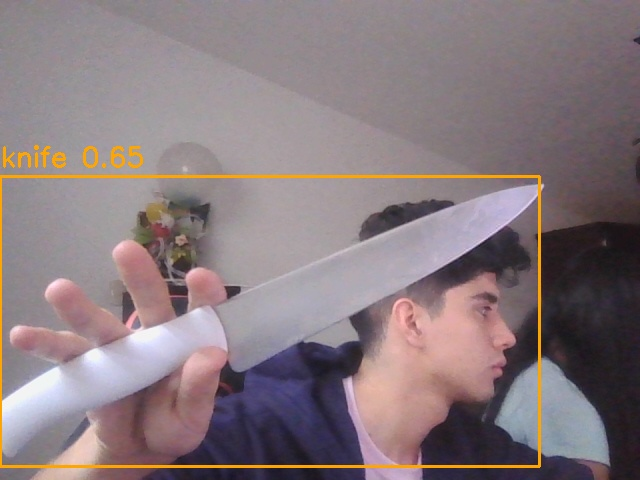
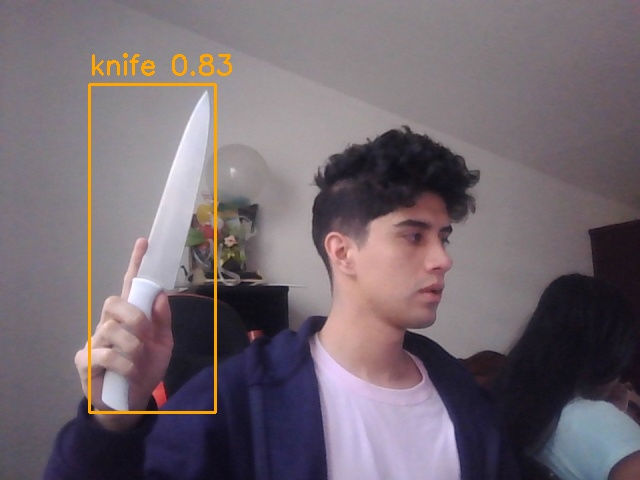
se sube pruebas unitarias y ajustes al codigo para envio de fotos

diff --git a/Cliente/detection.py b/Cliente/detection.py
@@ -54,8 +54,6 @@ class Detection(QThread):
         print("Clases disponibles:", model.names)
 
         cap = cv2.VideoCapture(0)
-        
-        startingTime = time.time()
 
         while self.running:
             ret, frame = cap.read()
@@ -63,26 +61,28 @@ class Detection(QThread):
             if ret:
                 results = model(frame)
 
+                detection_made = False
                 for r in results:
                     boxes = r.boxes
                     for box in boxes:
-                        x1, y1, x2, y2 = box.xyxy[0]
-                        x1, y1, x2, y2 = int(x1), int(y1), int(x2), int(y2)
-                        
                         conf = box.conf[0]
                         cls = int(box.cls[0])
 
                         if conf > 0.5:
+                            x1, y1, x2, y2 = box.xyxy[0]
+                            x1, y1, x2, y2 = int(x1), int(y1), int(x2), int(y2)
                             color = self.colors.get(cls, (255, 255, 255))
                             cv2.rectangle(frame, (x1, y1), (x2, y2), color, 2)
                             label = f'{model.names[cls]} {conf:.2f}'
                             cv2.putText(frame, label, (x1, y1 - 10), cv2.FONT_HERSHEY_SIMPLEX, 0.9, color, 2)
+                        if conf > 0.80:
+                            detection_made = True
 
-                elapsedTime = time.time() - startingTime
-                if elapsedTime >= 10:
-                    startingTime = time.time()
+
+
+                    
+                if detection_made:
                     self.saveDetection(frame)
-
                 rgbImage = cv2.cvtColor(frame, cv2.COLOR_BGR2RGB)
                 h, w, ch = rgbImage.shape
                 bytesPerLine = ch * w
@@ -98,28 +98,23 @@ class Detection(QThread):
 
         cap.release()
 
-	# Saves detected frame as a .jpg within the saved_alert folder
     def saveDetection(self, frame):
         cv2.imwrite("savedFrame/frame.jpg", frame)
         print('Frame Saved')
         self.postDetection()
 
-	# Sends alert to the server
     def postDetection(self):
         try:
             url = 'http://127.0.0.1:8000/api/images/'
             headers = {'Authorization': 'Token ' + self.token}
             files = {'image': open('savedFrame/frame.jpg', 'rb')}
-            data = {'userID': self.token,'location': self.location, 'alertReceiver': self.receiver}
+            data = {'userID': self.token, 'location': self.location, 'alertReceiver': self.receiver}
             response = requests.post(url, files=files, headers=headers, data=data)
 
-			# HTTP 200
             if response.ok:
                 print('Alert was sent to the server')
-			# Bad response
             else:
                 print('Unable to send alert to the server')
         except Exception as e:
             print(f'Error al acceder al servidor: {str(e)}')
             print(traceback.format_exc())
-

diff --git a/Cliente/monitoringWindowClass.py b/Cliente/monitoringWindowClass.py
@@ -25,7 +25,7 @@ class MonitoringWindow(QMainWindow):
             if self.detectionWindow.isVisible():
                 print('La deteccion esta abierta')
             else:
-                self.detectionWindow.createDetectionInstance(self.token, self.ubicationInput.text(), self.startMonitoring.text())
+                self.detectionWindow.createDetectionInstance(self.token, self.ubicationInput.text(), self.receiveInput.text())
                 self.detectionWindow.startDetection()
 
     def closeEvent(self,event):
